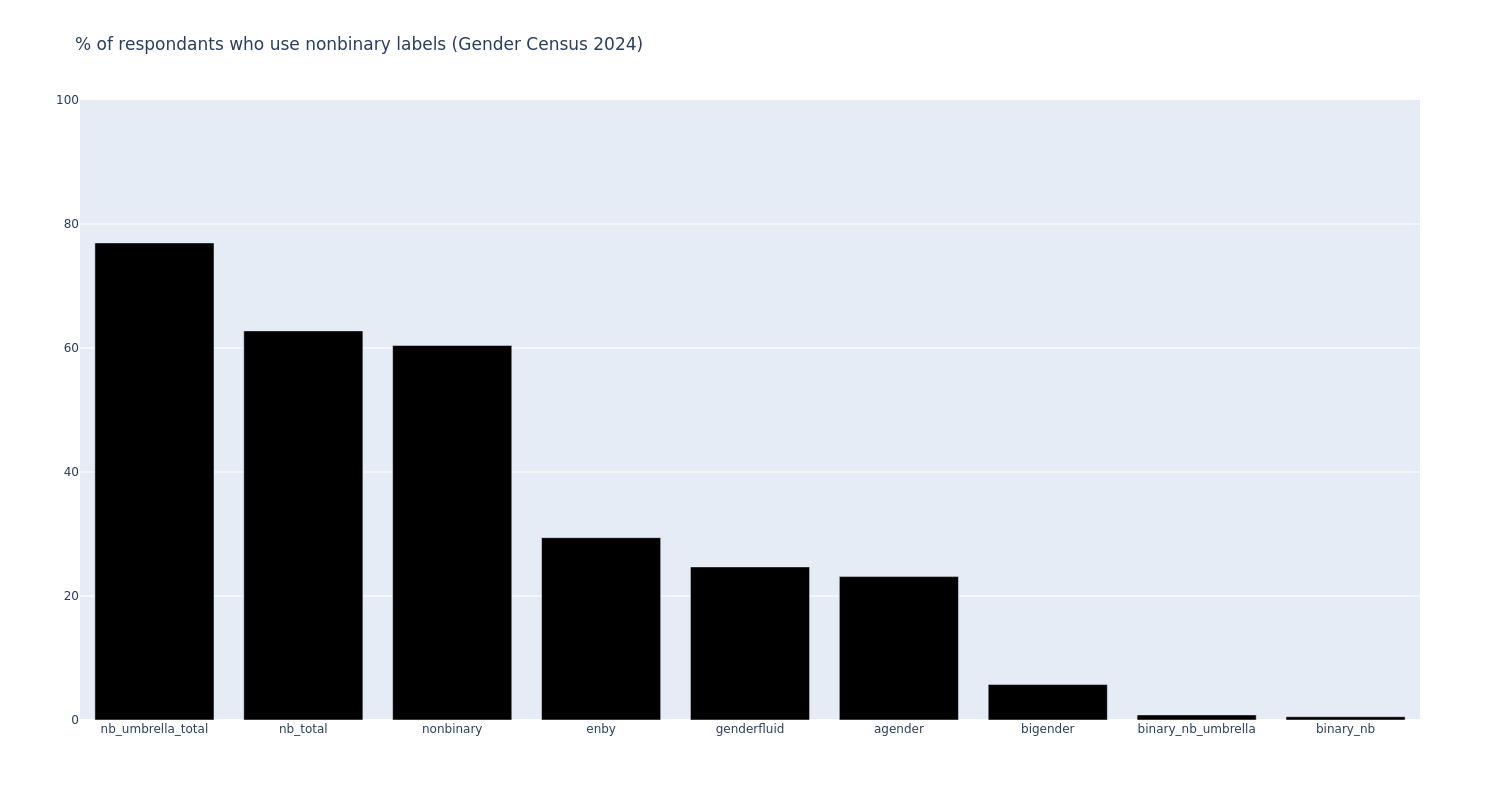
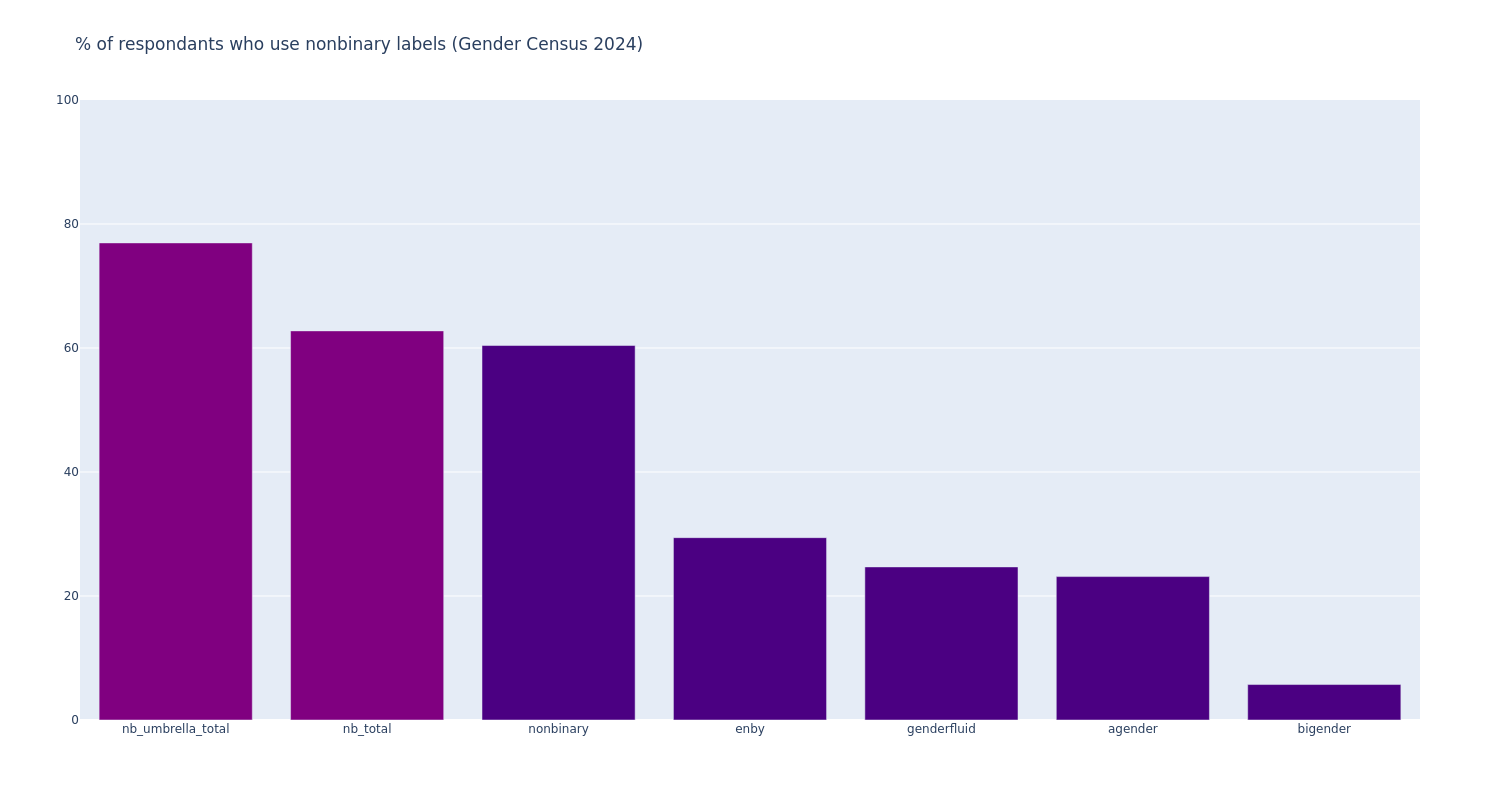
adjust get lists for tickbox charts so far and add some colour coding

Changed region(s): [[0.0613, 0.2812, 0.9507, 0.9375]]

diff --git a/visualisation/make_prepped_df.py b/visualisation/make_prepped_df.py
@@ -8,7 +8,9 @@ def count_df(input_df:pd.DataFrame, data_case:str):
     sorted in descending value order, 
     and percentage numbers
     """
+    
     new_series = input_df.copy().count() # this becomes a series
+    
     if "UserID" in new_series.index:
         new_series.pop("UserID")
 
@@ -80,16 +82,39 @@ def count_df(input_df:pd.DataFrame, data_case:str):
             "questioning_only",
         ]
     elif data_case == "tickbox_label_total":
-        get_list = new_series.index
+        get_list = [
+            "a person/human/[my name]/just me_tickbox",
+            "agender_tickbox",
+            "bigender_tickbox",
+            "binary_tickbox",
+            "butch_tickbox",
+            "cisgender_tickbox",
+            "demiboy_tickbox",
+            "demigirl_tickbox",
+            "enby_tickbox",
+            "fag_tickbox",
+            "gender non-conforming_tickbox",
+            "genderfluid_tickbox",
+            "genderqueer_tickbox",
+            "nonbinary_tickbox",
+            "queer_tickbox",
+            "questioning/unknown_tickbox",
+            "trans_tickbox",
+            "transfeminine_tickbox",
+            "transgender_tickbox",
+            "transmasculine_tickbox",
+            "no self-description_tickbox",
+        ]
     elif data_case == "tickbox_nb_labels":
-        get_list = []
-        for column in new_series.index:
-            for key_word in [
-                "nonbinary","enby","nb_",
-                "fluid","bigender","agender",
-            ]: 
-                if key_word in column:
-                    get_list.append(column)
+        get_list = [
+            "agender_tickbox",
+            "bigender_tickbox",
+            "enby_tickbox",
+            "genderfluid_tickbox",
+            "nonbinary_tickbox",
+            "is_nb_tickbox",
+            "is_nb_umbrella_tickbox",
+        ]
 
     new_series = new_series.get(get_list)
 

diff --git a/visualisation/chart_colours.py b/visualisation/chart_colours.py
@@ -43,5 +43,67 @@ alignment_colours = {
     "unaligned":"purple",
 }
 
-label_colours = {
+# for reference of what they ended up being called
+tickbox_labels = [
+    "a person/human/[my name]/just me_tickbox",
+    "agender_tickbox",
+    "bigender_tickbox",
+    "binary_tickbox",
+    "butch_tickbox",
+    "cisgender_tickbox",
+    "demiboy_tickbox",
+    "demigirl_tickbox",
+    "enby_tickbox",
+    "fag_tickbox",
+    "gender non-conforming_tickbox",
+    "genderfluid_tickbox",
+    "genderqueer_tickbox",
+    "nonbinary_tickbox",
+    "queer_tickbox",
+    "questioning/unknown_tickbox",
+    "trans_tickbox",
+    "transfeminine_tickbox",
+    "transgender_tickbox",
+    "transmasculine_tickbox",
+    "no self-description_tickbox",
+]
+other_tickbox_labels = {
+    "cis_trans" : [
+        "is_trans_tickbox",
+        "is_cis_tickbox",
+        "conflicted_cis/trans_tickbox",
+        "unspecified_cis/trans_tickbox",
+    ],
+    "demiboy_demigirl": {
+        "is_only_demigirl_tickbox":"mediumvioletred",
+        "is_only_demiboy_tickbox":"slateblue",
+        "conflicted_demigirl/demiboy_tickbox":"violet",
+    },
+    "transmasc_transfem": [
+        "is_transmasc_tickbox",
+        "is_transfemme_tickbox",
+        "conflicted_transmasc/transfem_tickbox",
+        "unspecified_transmasc/transfem_tickbox",
+    ],
+    "butch_fag": [
+        "is_only_butch_tickbox",
+        "is_only_fag_tickbox",
+        "conflicted_fag/butch_tickbox",
+    ],
+    "nb": [
+        "is_nb_tickbox",
+        "is_nb_umbrella_tickbox",
+    ],
+    "birthsexes": [
+        "is_afab_tickbox",
+        "is_amab_tickbox",
+    ],
+    
+    # idk if I'll keep the binary nb ones bc barely anyone ticked it
+    # but then make nb labels binary exclusive or leave as is?
+    "binary_nb": [
+        "is_binary_nb_tickbox",
+        "is_binary_nb_umbrella_tickbox",
+    ]
+
 }

diff --git a/visualisation/vis_utils.py b/visualisation/vis_utils.py
@@ -1,4 +1,4 @@
-from visualisation.chart_colours import pronoun_colours, alignment_colours, label_colours
+from visualisation.chart_colours import pronoun_colours, alignment_colours, tickbox_labels, other_tickbox_labels
 
 def make_colour_list(input_list:list, data_case:str):
     """
@@ -14,11 +14,24 @@ def make_colour_list(input_list:list, data_case:str):
         colour_ref = pronoun_colours
     elif data_case == "alignments":
         colour_ref = alignment_colours
-    elif data_case == "labels":
-        colour_ref = label_colours
+    elif data_case == "tickbox_labels":
+        colour_ref = tickbox_labels
     
-    if len(colour_ref) > 0:
+    if data_case in ["pronouns","alignments"]: # getting specific colours for each item
         colour_list = [colour_ref[item] for item in input_list]
-    else: colour_list = []
+    elif data_case == "tickbox_labels": # getting colours based on whether they're tickbox or added columns
+        colour_list = []
+        for item in input_list:
+            if item in colour_ref:
+                colour = "indigo"
+            else: 
+                for category in other_tickbox_labels:
+                    current_collection = other_tickbox_labels[category]
+                    if item in current_collection: # if the column is listed in this one
+                        if type(current_collection) == dict: # if we've given it a colour
+                            colour = current_collection[item]
+                        else: # default colour
+                            colour = "purple"
+            colour_list.append(colour)
 
     return colour_list

diff --git a/visualisation/make_bar_charts.py b/visualisation/make_bar_charts.py
@@ -21,7 +21,7 @@ def make_simple_bar(input_srs:pd.Series, data_case:str):
     if data_case in ["total_users","only_one_set","big_three_combos","it_and_neo_combos"]:
         colours = make_colour_list(input_srs.index, "pronouns")
     elif data_case in ["tickbox_label_total", "tickbox_nb_labels"]:
-        colours = make_colour_list(input_srs.index, "labels")
+        colours = make_colour_list(input_srs.index, "tickbox_labels")
 
     # making labels
     if data_case in ["tickbox_nb_labels"]: # removing _tickbox & is_ & add _total to nb/nb_umbrella
@@ -64,7 +64,7 @@ def make_simple_bar(input_srs:pd.Series, data_case:str):
     elif data_case == "it_and_neo_combos":
         title = f"% of respondants who use she, he, or they w/ it or neopronouns (order insensitive) <br>{suffix}"
     elif data_case == "tickbox_label_total":
-        title = f"% of respondants who use this label {suffix}"
+        title = f"% of respondants who ticked this label {suffix}"
     elif data_case == "tickbox_nb_labels":
         title = f"% of respondants who use nonbinary labels {suffix}"
 
